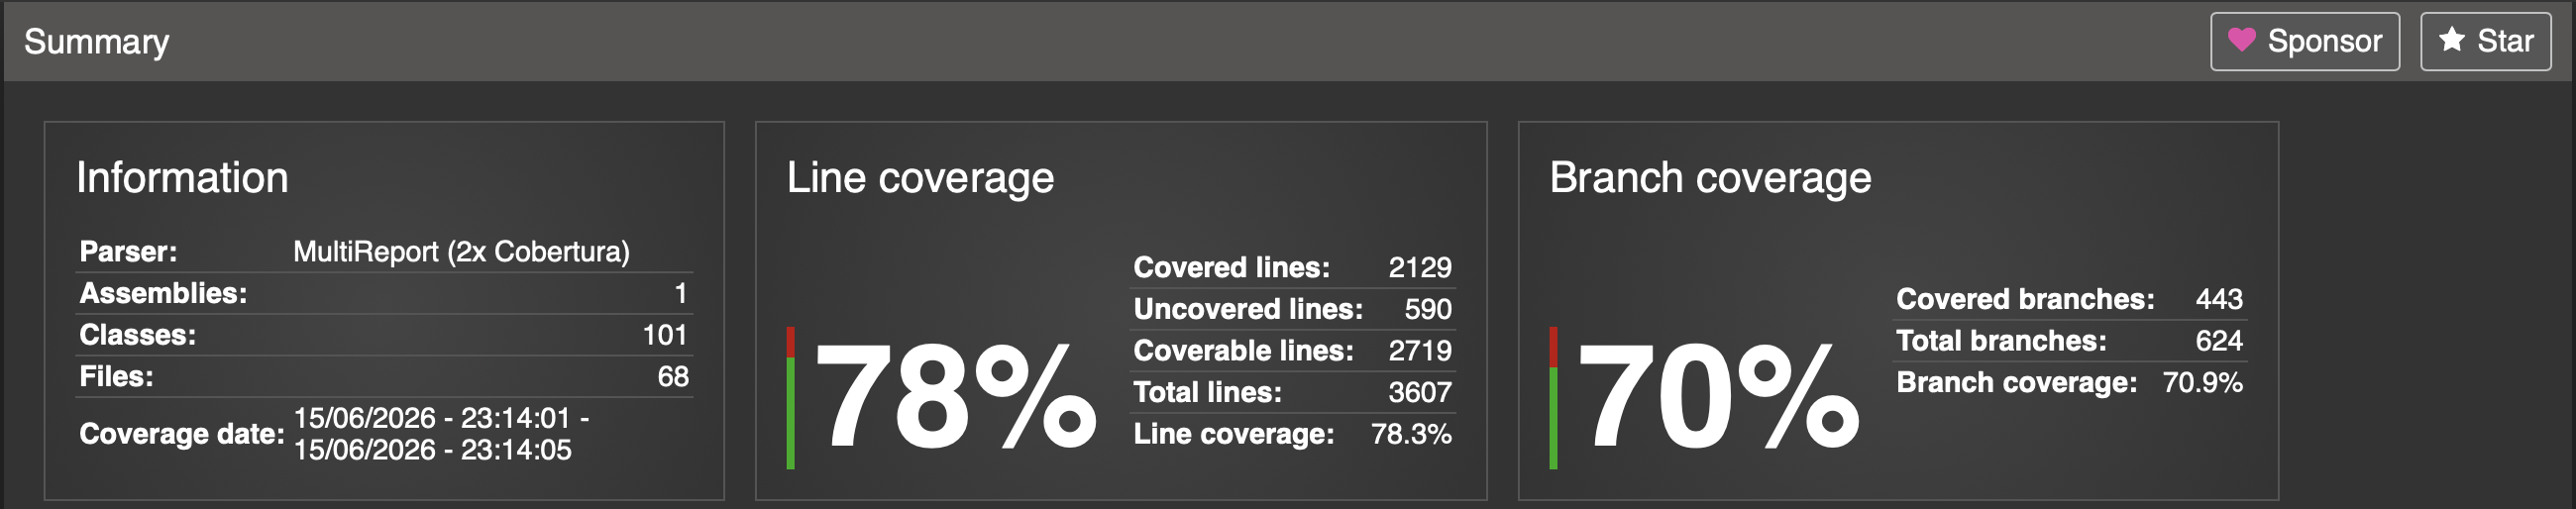
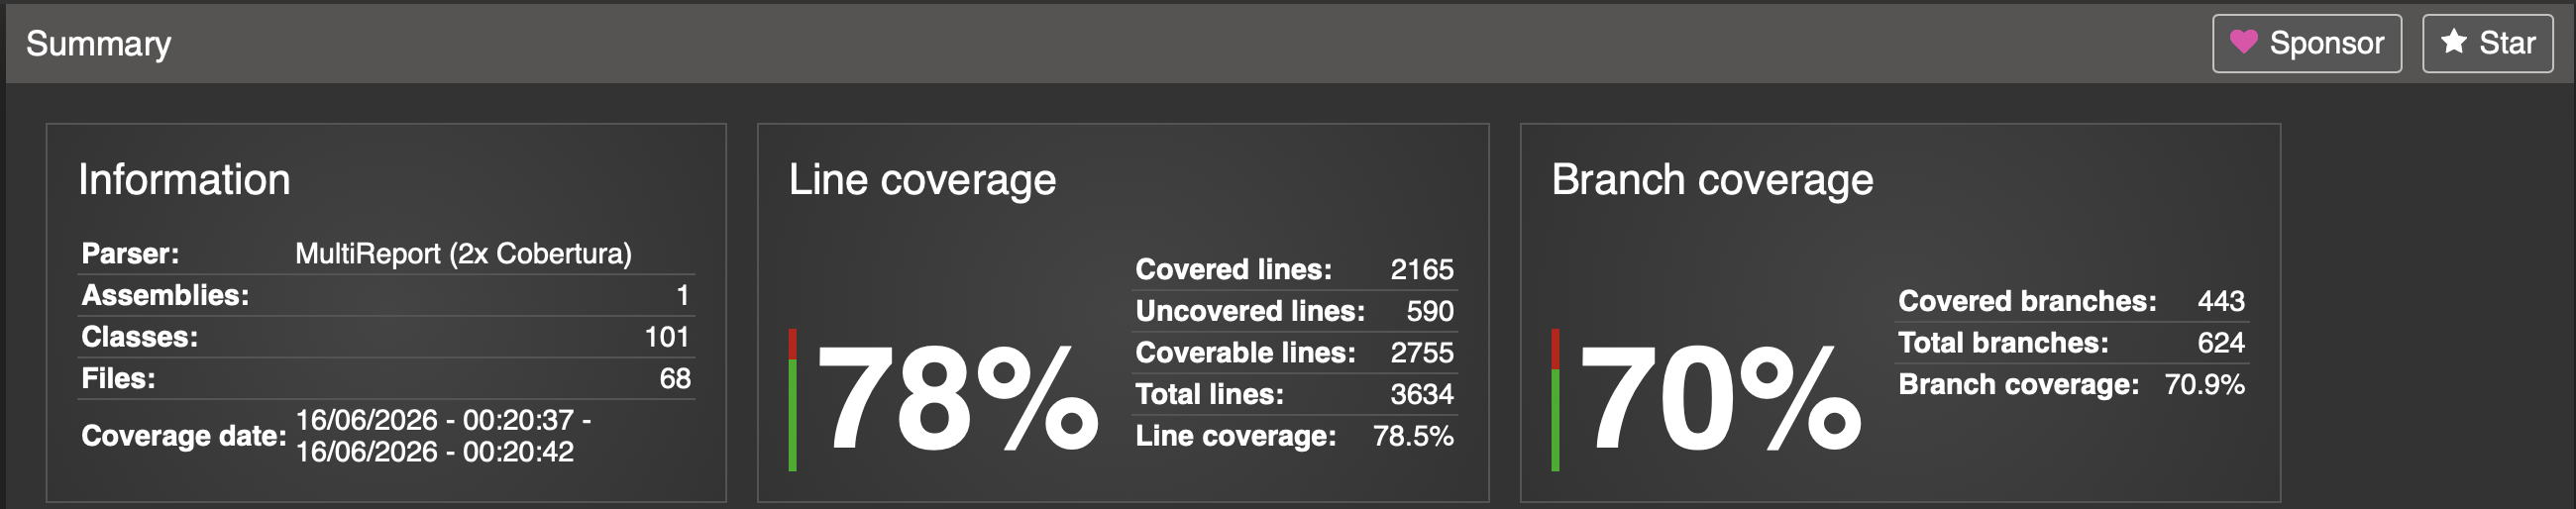
Handle TwitchService HttpClient exceptions gracefully

diff --git a/EsportHub.Backend/tests/EsportHub.UnitTests/Infrastructure/Twitch/TwitchServiceTests.cs b/EsportHub.Backend/tests/EsportHub.UnitTests/Infrastructure/Twitch/TwitchServiceTests.cs
@@ -3,6 +3,7 @@ using EsportHub.Infrastructure.Twitch;
 using Microsoft.Extensions.Logging;
 using Microsoft.Extensions.Options;
 using NSubstitute;
+using NSubstitute.ExceptionExtensions;
 
 namespace EsportHub.UnitTests.Infrastructure.Twitch;
 
@@ -170,11 +171,56 @@ public class TwitchServiceTests
         Assert.True(ReceivedErrorLog(logger));
     }
 
+    [Fact]
+    public async Task GetRecurringSchedulesAsync_GivenHttpClientTimeout_ReturnsAndLogsError()
+    {
+        var service = CreateServiceThatThrows(new TaskCanceledException("The request timed out"), out var logger);
+
+        var result = await service.GetRecurringSchedulesAsync(CancellationToken.None);
+
+        Assert.True(result.IsError());
+        Assert.True(ReceivedErrorLog(logger));
+    }
+
+    [Fact]
+    public async Task CreateRecurringScheduleAsync_GivenHttpClientTimeout_ReturnsAndLogsError()
+    {
+        var service = CreateServiceThatThrows(new TaskCanceledException("The request timed out"), out var logger);
+
+        var result = await service.CreateRecurringScheduleAsync(
+            DateTimeOffset.UtcNow, "UTC", 60, null, null, CancellationToken.None);
+
+        Assert.True(result.IsError());
+        Assert.True(ReceivedErrorLog(logger));
+    }
+
+    [Fact]
+    public async Task CreateClipAsync_GivenHttpClientTimeout_ReturnsAndLogsError()
+    {
+        var service = CreateServiceThatThrows(new TaskCanceledException("The request timed out"), out var logger);
+
+        var result = await service.CreateClipAsync(null, null, CancellationToken.None);
+
+        Assert.True(result.IsError());
+        Assert.True(ReceivedErrorLog(logger));
+    }
+
     private static TwitchService CreateService(HttpResponseMessage response, out ILogger<TwitchService> logger)
     {
         var handler = Substitute.For<MockHttpMessageHandler>();
         handler.PublicSendAsync(Arg.Any<HttpRequestMessage>(), Arg.Any<CancellationToken>())
             .Returns(Task.FromResult(response));
+
+        var httpClient = new HttpClient(handler) { BaseAddress = new Uri("https://api.twitch.tv/helix/") };
+        logger = Substitute.For<ILogger<TwitchService>>();
+        return new TwitchService(httpClient, Options.Create(DefaultOptions), logger);
+    }
+
+    private static TwitchService CreateServiceThatThrows(Exception exception, out ILogger<TwitchService> logger)
+    {
+        var handler = Substitute.For<MockHttpMessageHandler>();
+        handler.PublicSendAsync(Arg.Any<HttpRequestMessage>(), Arg.Any<CancellationToken>())
+            .Throws(exception);
 
         var httpClient = new HttpClient(handler) { BaseAddress = new Uri("https://api.twitch.tv/helix/") };
         logger = Substitute.For<ILogger<TwitchService>>();

diff --git a/EsportHub.Backend/src/Infrastructure/Twitch/TwitchService.cs b/EsportHub.Backend/src/Infrastructure/Twitch/TwitchService.cs
@@ -47,9 +47,18 @@ public class TwitchService(
 
     public async Task<Result<ChannelScheduleDto>> GetRecurringSchedulesAsync(CancellationToken cancellationToken)
     {
-        var response = await httpClient.GetAsync(
-            $"schedule?broadcaster_id={_config.BroadcasterId}",
-            cancellationToken);
+        HttpResponseMessage response;
+        try
+        {
+            response = await httpClient.GetAsync(
+                $"schedule?broadcaster_id={_config.BroadcasterId}",
+                cancellationToken);
+        }
+        catch (Exception exception)
+        {
+            logger.LogError(exception, "Request to Twitch API failed");
+            return Result.Error("Request to Twitch API failed");
+        }
 
         if (response.StatusCode is HttpStatusCode.Unauthorized)
             return Result.Unauthorized();
@@ -107,10 +116,19 @@ public class TwitchService(
 
         var body = new TwitchCreateSegmentRequest(startTime, timezone, duration.ToString(), true, categoryId, title);
 
-        var response = await httpClient.PostAsJsonAsync(
-            $"schedule/segment?broadcaster_id={_config.BroadcasterId}",
-            body,
-            cancellationToken);
+        HttpResponseMessage response;
+        try
+        {
+            response = await httpClient.PostAsJsonAsync(
+                $"schedule/segment?broadcaster_id={_config.BroadcasterId}",
+                body,
+                cancellationToken);
+        }
+        catch (Exception exception)
+        {
+            logger.LogError(exception, "Request to Twitch API failed");
+            return Result.Error("Request to Twitch API failed");
+        }
 
         if (response.StatusCode is HttpStatusCode.Unauthorized)
             return Result.Unauthorized();
@@ -165,7 +183,16 @@ public class TwitchService(
             query += $"&duration={duration.Value}";
         }
 
-        var response = await httpClient.PostAsync(query, null, cancellationToken);
+        HttpResponseMessage response;
+        try
+        {
+            response = await httpClient.PostAsync(query, null, cancellationToken);
+        }
+        catch (Exception exception)
+        {
+            logger.LogError(exception, "Request to Twitch API failed");
+            return Result.Error("Request to Twitch API failed");
+        }
 
         if (response.StatusCode is HttpStatusCode.Unauthorized)
             return Result.Unauthorized();